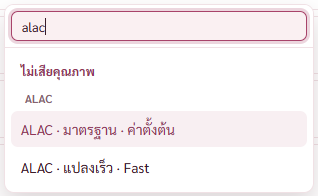
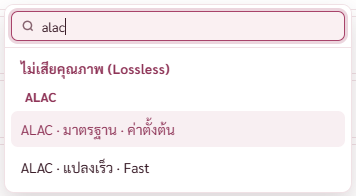
แก้ต่อชุด 8 ดรอปดาวน์ชนิดเสียง: หัวกลุ่มมีคำภาษาอังกฤษ (Lossy) (Lossless) · ช่องค้นโฟกัสโดยไม่ให้หน้าเลื่อน เมนูไม่ปิดเอง · ตัวตรวจรันได้แม้คิวมีไฟล์ของพี่กัน ตรวจขอบเมนูถึงปุ่มตั้งค่า
เป้าหมาย
--------
หลัง 9a3e0e2 พี่กันทัก
- "เรายังเห็นมันยังยาวไม่เท่าเลย" · "ตรวจสิวะ ไม่งั้นเราจะมองว่าไม่ทำตามสั่ง งานยังไม่เสร้จ" (แคลร์รายงานว่ายังไม่ได้วัด ให้พี่กันปิดเปิดเอง)
- "รันไปสิ" (ตัวตรวจชุด 8 ที่แคลร์ไม่รันเพราะคิวมีไฟล์ของพี่กัน)
- "ใส่คำภาษาอังกฤษด้วย" (หัวกลุ่ม ไม่เสียคุณภาพ) · "ใส่เวอร์ชั่นด้วย" แล้วตามด้วย "ไม่ดีกว่า ไม่ต้องใส่" (หัวย่อย ไม่ทำ)
รอบนี้ไม่แตะ ชุด 9 ถึง 13

ที่ทำ
-----

ดรอปดาวน์ — src/components/Dropdown.tsx · src/components/ConvertPane.tsx
---------------------------------------------------------------------
[1] หัวกลุ่ม "เสียคุณภาพ" → "เสียคุณภาพ (Lossy)" · "ไม่เสียคุณภาพ" → "ไม่เสียคุณภาพ (Lossless)"
[2] แก้บั๊ก [B1] · ช่องค้นไม่ใช้ autoFocus แล้ว โฟกัสหลังวาดหนึ่งเฟรมด้วย preventScroll
[3] วัดเมนูยาวถึงปุ่มตั้งค่าเอง ปิดแล้วเปิดเมนูในแถวคิวผ่านพอร์ตดีบัก เมนู 833 ถึง 1,181 ปุ่มตั้งค่าขวา 1,181 · โค้ดความกว้างอยู่ใน 9a3e0e2 แล้ว รอบนี้ไม่ได้แก้ เมนูที่พี่กันเห็นไม่เท่าคือเมนูที่เปิดค้างตั้งแต่ก่อนแก้

ตัวตรวจ — scripts/check-bugs8.mjs
--------------------------------
[4] คิวมีไฟล์อยู่ก่อนไม่ข้ามแล้ว (แต่ไม่ถ่ายภาพคิว กันชื่อไฟล์ส่วนตัวติดภาพ) เพิ่มไฟล์ทดสอบต่อท้าย ข้อ 27 ใช้แถวไฟล์ทดสอบ (เพลงทดสอบ.wav) ไม่แตะแถวของพี่กัน · ตอนจบเอาออกเฉพาะไฟล์ทดสอบ ตรวจว่าคิวเหลือเท่าก่อน · เพิ่มตรวจขอบซ้ายเมนูตรงปุ่ม ขอบขวาถึงปุ่มตั้งค่า · หัวกลุ่มใหม่

บั๊กที่แก้
----------
[B1] เปิดดรอปดาวน์ในแถวคิวที่อยู่ล่างกรอบ เมนูปิดเองทันที
อาการ      ตัวตรวจชุด 8 รอบที่คิวมีไฟล์ของพี่กัน ข้อ 27 ไม่เจอเมนูเลย 3 ข้อแดง
[…]

diff --git a/src/components/Dropdown.tsx b/src/components/Dropdown.tsx
@@ -29,6 +29,9 @@ export default function Dropdown<T extends string>(p: {
   const [open, setOpen] = useState(false);
   const [hi, setHi] = useState(-1);
   const [qy, setQy] = useState("");
+  const searchRef = useRef<HTMLInputElement>(null);
+  // โฟกัสช่องค้นโดยไม่ให้หน้าเลื่อน (autoFocus ทำให้หน้าเลื่อนนิดหนึ่ง ตัวปิดเมนูตอนหน้าเลื่อนเลยปิดเมนูทันที เจอตอนตรวจ)
+  useEffect(() => { if (!open || !p.search) return; const id = requestAnimationFrame(() => searchRef.current?.focus({ preventScroll: true })); return () => cancelAnimationFrame(id); }, [open, p.search]);
   const words = qy.trim().toLowerCase().split(/\s+/).filter(Boolean);
   const list = words.length ? p.options.filter((o) => { const t = `${o.label} ${o.group ?? ""} ${o.sub ?? ""}`.toLowerCase(); return words.every((w) => t.includes(w)); }) : p.options;
   const wrap = useRef<HTMLDivElement>(null);
@@ -116,7 +119,7 @@ export default function Dropdown<T extends string>(p: {
           {p.search && (
             <div className="ddsearch" onMouseDown={(e) => e.stopPropagation()}>
               <IcSearch size={14} />
-              <input autoFocus value={qy} onChange={(e) => setQy(e.target.value)} onKeyDown={onKey} placeholder="พิมพ์ค้น เช่น alac 5.1 320" aria-label={"ค้นใน" + p.label} data-ddsearch />
+              <input ref={searchRef} value={qy} onChange={(e) => setQy(e.target.value)} onKeyDown={onKey} placeholder="พิมพ์ค้น เช่น alac 5.1 320" aria-label={"ค้นใน" + p.label} data-ddsearch />
             </div>
           )}
           {p.search && !list.length && <div className="ddempty">ไม่เจอตัวเลือกที่ตรงกับ “{qy}”</div>}

diff --git a/src/components/ConvertPane.tsx b/src/components/ConvertPane.tsx
@@ -99,7 +99,7 @@ export default function ConvertPane(p: { onCompare: (a: string, b: string, note:
   useEffect(() => { encodeApi.status().then(setEncs, () => setEncs([])); }, []);
   /** ชุดค่าทุกชนิดเสียงในดรอปดาวน์ · ค่าที่ตั้งเองในแผงไม่ตรงชุดไหน ก็ยังขึ้นชื่อค่าที่ใช้อยู่ */
   // แบ่งสองกลุ่มใหญ่ เสียคุณภาพ กับ ไม่เสียคุณภาพ หัวย่อยตามชนิด (BUGS ข้อ 27 พี่กันหา ALAC ไม่เจอ)
-  const presets = useMemo(() => [false, true].flatMap((ll) => CODECS.filter((c) => !!c.lossless === ll).flatMap((c) => c.presets.map((pr, i) => ({ value: c.id + ":" + i, label: c.name + " · " + pr.label + " · " + pr.detail, group: ll ? "ไม่เสียคุณภาพ" : "เสียคุณภาพ", sub: c.name, spec: presetSpec(c, i, encs) })))), [encs]);
+  const presets = useMemo(() => [false, true].flatMap((ll) => CODECS.filter((c) => !!c.lossless === ll).flatMap((c) => c.presets.map((pr, i) => ({ value: c.id + ":" + i, label: c.name + " · " + pr.label + " · " + pr.detail, group: ll ? "ไม่เสียคุณภาพ (Lossless)" : "เสียคุณภาพ (Lossy)", sub: c.name, spec: presetSpec(c, i, encs) })))), [encs]);
   const presetOf = (sp: EncodeSpec) => presets.find((x) => x.spec.codec === sp.codec && specLabel(x.spec) === specLabel(sp))?.value ?? "";
   const specOf = (v: string) => presets.find((x) => x.value === v)?.spec ?? null;
 
